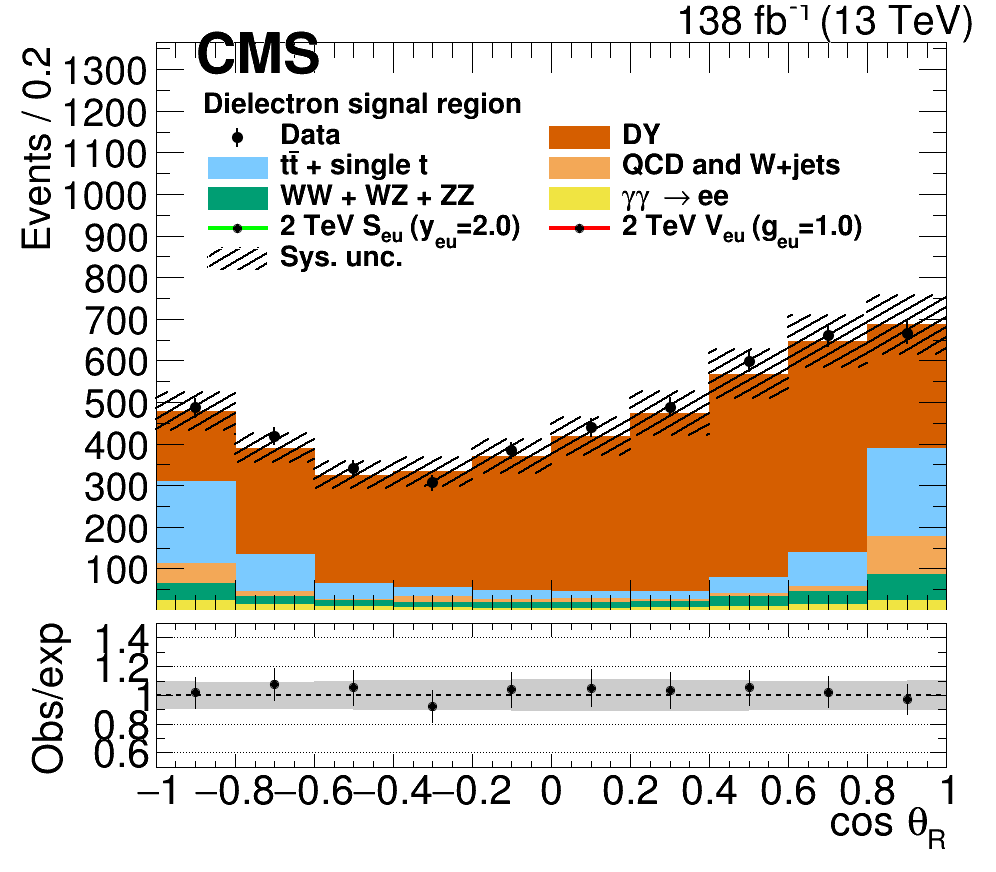
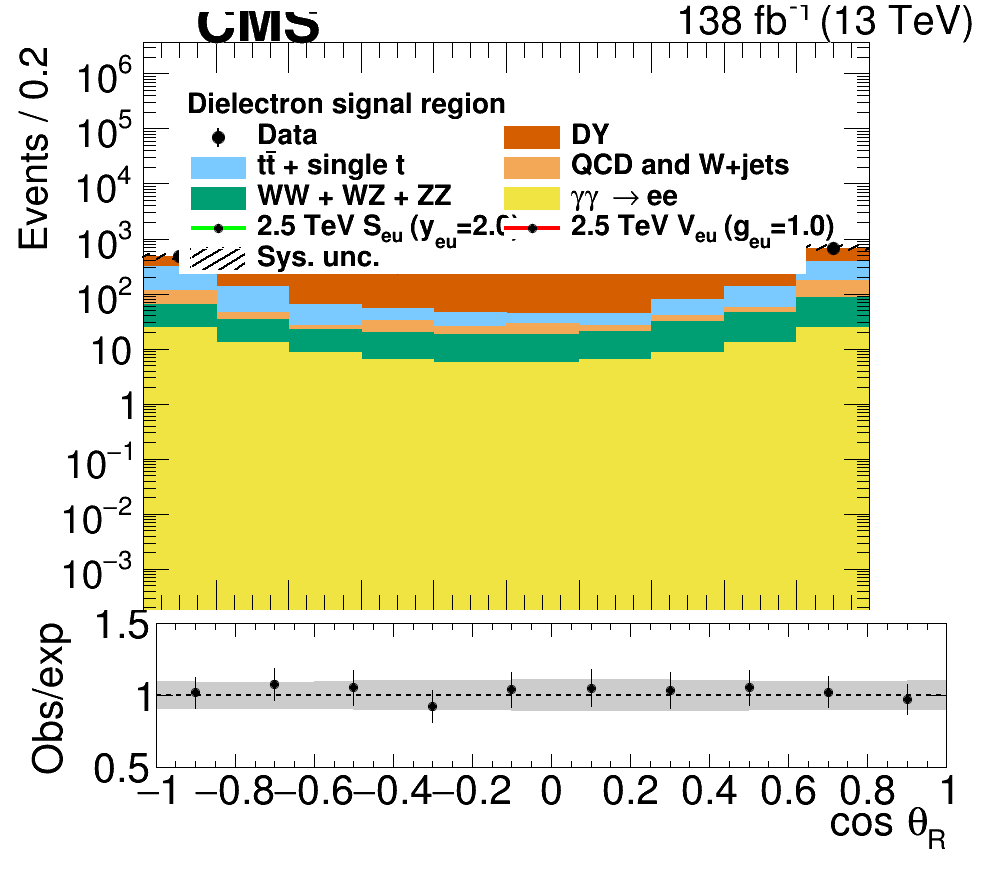
plot fix?

diff --git a/plots/ElEl/draw_cmp_from_saved.C b/plots/ElEl/draw_cmp_from_saved.C
@@ -372,8 +372,8 @@ void draw_cmp_from_saved(){
     leg2->AddEntry(diboson_m, "WW + WZ + ZZ  ", "f");
     //leg2->AddEntry(gg_m, "#gamma#gamma #rightarrow #bf{ee}", "f");
     leg2->AddEntry(gg_m, "#gamma#gamma #rightarrow ee", "f");
-    leg2->AddEntry(LQu_m, "2 TeV S_{eu} (y_{eu}=2.0)");
-    leg2->AddEntry(LQu_vec_m, "2 TeV V_{eu} (g_{eu}=1.0)");
+    leg2->AddEntry(LQu_m, "2.5 TeV S_{eu} (y_{eu}=2.0)");
+    leg2->AddEntry(LQu_vec_m, "2.5 TeV V_{eu} (g_{eu}=1.0)");
     leg2->SetTextSize(0.05);
 
 
@@ -383,8 +383,8 @@ void draw_cmp_from_saved(){
     leg3->AddEntry(diboson_m, "WW + WZ + ZZ  ", "f");
     //leg3->AddEntry(gg_m, "#gamma#gamma #rightarrow #bf{ee}", "f");
     leg3->AddEntry(gg_m, "#gamma#gamma #rightarrow ee", "f");
-    leg3->AddEntry(LQu_m, "2 TeV S_{eu} (y_{eu}=2.0)");
-    leg3->AddEntry(LQu_vec_m, "2 TeV V_{eu} (g_{eu}=1.0)");
+    leg3->AddEntry(LQu_m, "2.5 TeV S_{eu} (y_{eu}=2.0)");
+    leg3->AddEntry(LQu_vec_m, "2.5 TeV V_{eu} (g_{eu}=1.0)");
     leg3->SetTextSize(0.05);
 
     leg1->SetX1NDC(0.7);
@@ -401,7 +401,7 @@ void draw_cmp_from_saved(){
 
 
 
-    bool logy = false;
+    bool logy = true;
 
     bool logx = false;
     bool draw_sys_uncs = true;
@@ -448,7 +448,7 @@ void draw_cmp_from_saved(){
     leg2->SetY2(y_start_c+y_size);
 
     
-    logy = false;
+    logy = true;
     int n_cost_bins = 10;
     float cost_bin_size = 2./n_cost_bins;
     hmax = 1300;

diff --git a/plots/CMS_lumi.C b/plots/CMS_lumi.C
@@ -152,7 +152,7 @@ CMS_lumi( TPad* pad, int iPeriod, int iPosX )
       latex.SetTextFont(cmsTextFont);
       latex.SetTextSize(cmsTextSize*t);
       latex.SetTextAlign(align_);
-      if(draw_CMS) latex.DrawLatex(posX_, posY_+0.05, cmsText);
+      if(draw_CMS) latex.DrawLatex(posX_, posY_+0.1, cmsText);
       if( writeExtraText ) 
         {
           latex.SetTextFont(extraTextFont);
